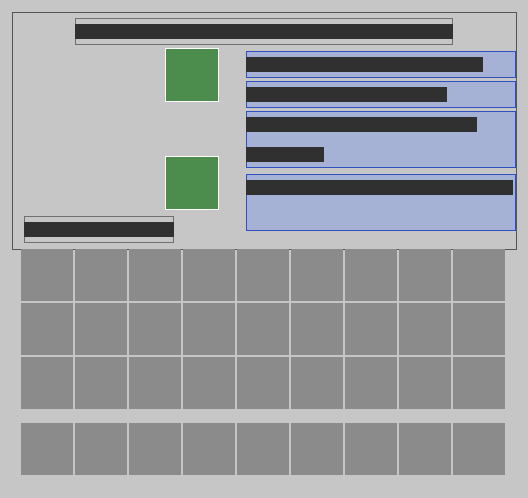
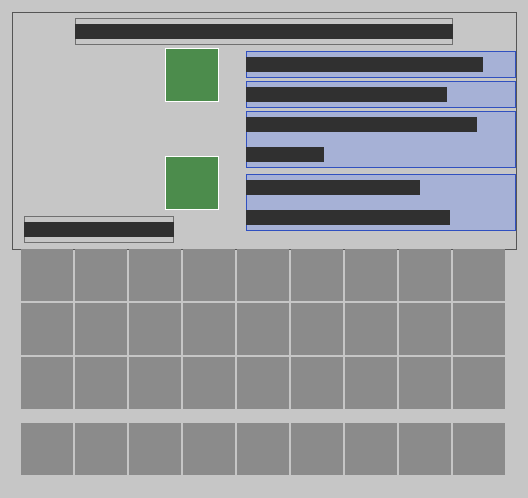
IMP O-037 [10-04]: feedback control - centrifugal governor fitted to steam engines and turbines throttles the valve by speed (stored energy stands in for rpm, P control), saving coal; screen shows speed vs 100% target; GameTest centrifugal_governor, REFERENCES, DECISIONS Q36-1/Q36-2 (provisional); L

Changed region(s): [[0.4545, 0.4217, 0.8788, 0.4518], [0.7879, 0.3614, 0.9697, 0.3916]]

diff --git a/src/main/java/com/taku3/semiconductorlab/energy/SteamEngineBlockEntity.java b/src/main/java/com/taku3/semiconductorlab/energy/SteamEngineBlockEntity.java
@@ -32,15 +32,22 @@ public class SteamEngineBlockEntity extends GeneratorBlockEntity implements Mach
     public static final double COAL_HEAT_J = 30_000_000;   // 石炭1個の熱（ゲームの約束）
     public static final int SLOT_COAL = 0, SLOT_WATER = 1;
     // GUI へ送る数値。同期は short（最大32767）なので、W は「0.1kW 単位」、J は「kJ 単位」に縮めて送る
-    public static final int DATA_BURN = 0, DATA_BURN_TOTAL = 1, DATA_WATER = 2, DATA_DECI_KW = 3, DATA_KJ = 4, DATA_COUNT = 5;
+    public static final int DATA_BURN = 0, DATA_BURN_TOTAL = 1, DATA_WATER = 2, DATA_DECI_KW = 3, DATA_KJ = 4, DATA_SPEED = 5, DATA_GOVERNOR = 6, DATA_COUNT = 7;
+    /** [10-04] 遠心調速機：目標の回転（%）と、今の回転の計算（蓄えの量 0〜1 → 80〜120%。蓄えがあふれそう＝回りすぎ） */
+    public static final int TARGET_SPEED = 100;
+    public static int speedPercent(double fill) { return (int) Math.round(80 + 40 * fill); }
     private final SimpleContainer container = new SimpleContainer(2) { @Override public void setChanged() { super.setChanged(); SteamEngineBlockEntity.this.setChanged(); } };
     private int burnTicks, waterUnits;
+    /** [10-04] 遠心調速機を付けたか・弁の開き（0〜1）・燃え進みの端数 */
+    private boolean governor;
+    private double throttle = 1, burnFrac;
     // waterUnits: 石炭何個分の水が残っているか。feedNow: 隣の水源から給水できたか（タービンだけ。GUI には水 = -1 で送る）
     private boolean feedNow;
     private final ContainerData data = new ContainerData() {
         @Override public int get(int i) { return switch (i) {
             case DATA_BURN -> burnTicks; case DATA_BURN_TOTAL -> coalTicks; case DATA_WATER -> feedNow ? -1 : waterUnits;
-            case DATA_DECI_KW -> (int) Math.round(getLastWatts() / 100); case DATA_KJ -> (int) (storage.getStoredJ() / 1000); default -> 0; }; }
+            case DATA_DECI_KW -> (int) Math.round(getLastWatts() / 100); case DATA_KJ -> (int) (storage.getStoredJ() / 1000);
+            case DATA_SPEED -> speedPercent(fill()); case DATA_GOVERNOR -> governor ? 1 : 0; default -> 0; }; }
         @Override public void set(int i, int v) {}
         @Override public int getCount() { return DATA_COUNT; }
     };
@@ -56,7 +63,7 @@ public class SteamEngineBlockEntity extends GeneratorBlockEntity implements Mach
             .text("output", 82, 17, 90, 1, "gui.semiconductor-lab.steam_engine.output").samples("500.0 kW")
             .text("stored", 82, 27, 90, 1, "gui.semiconductor-lab.steam_engine.stored").samples("50 kJ")
             .text("water", 82, 37, 90, 2, "gui.semiconductor-lab.steam_engine.water_intake", "gui.semiconductor-lab.steam_engine.water").samples("8")
-            .text("hint", 82, 58, 90, 2, "gui.semiconductor-lab.steam_engine.running", "gui.semiconductor-lab.steam_engine.need_water", "gui.semiconductor-lab.steam_engine.need_coal")
+            .text("hint", 82, 58, 90, 2, "gui.semiconductor-lab.steam_engine.running", "gui.semiconductor-lab.steam_engine.need_water", "gui.semiconductor-lab.steam_engine.need_coal", "gui.semiconductor-lab.steam_engine.governor").samples("120", "100")
             .build();
 
     public SteamEngineBlockEntity(BlockPos pos, BlockState state) { this(Power.STEAM_ENGINE.type, pos, state, 200_000, WATTS, COAL_TICKS); }
@@ -79,8 +86,17 @@ public class SteamEngineBlockEntity extends GeneratorBlockEntity implements Mach
     public int getWaterUnits() { return waterUnits; }
     public static boolean isFuel(ItemStack s) { return s.is(Items.COAL) || s.is(Items.CHARCOAL); }
 
+    /** 蓄えの量（0〜1） */
+    public double fill() { return storage.getStoredJ() / (double) Math.max(1, storage.getCapacityJ()); }
+    public boolean hasGovernor() { return governor; }
+    public double throttle() { return throttle; }
+    /** [10-04] 遠心調速機を付ける（付けたら true、アイテムを減らすのは呼ぶ側） */
+    public boolean installGovernor() { if (governor) return false; governor = true; setChanged(); return true; }
+
     @Override protected double produceWatts(Level level, BlockPos pos, BlockState state) {
-        if (burnTicks <= 0) {
+        // [10-04] フィードバック制御：今の回転（蓄えの量）を目標とくらべ、回りすぎなら弁をしぼる（P 制御）。調速機が無ければいつも全開＝あふれた電気は捨てる
+        throttle = governor ? Math.max(0, Math.min(1, 0.5 + (TARGET_SPEED - speedPercent(fill())) / 20.0)) : 1;
+        if (burnTicks <= 0 && throttle > 0) {
             boolean feed = feedNow = hasFeedWater(level, pos);
             ItemStack water = container.getItem(SLOT_WATER);
             if (!feed && waterUnits <= 0 && water.is(Items.WATER_BUCKET)) { container.setItem(SLOT_WATER, new ItemStack(Items.BUCKET)); waterUnits = 2; }
@@ -88,10 +104,15 @@ public class SteamEngineBlockEntity extends GeneratorBlockEntity implements Mach
             if ((feed || waterUnits > 0) && isFuel(coal)) { coal.shrink(1); container.setChanged(); if (!feed) waterUnits--; burnTicks = coalTicks; }
         }
         if (burnTicks <= 0) return 0;
-        burnTicks = Math.max(0, burnTicks - dynamoFactor());   // 自励式：2倍の出力＝2倍の速さで石炭を使う
-        return ratedWatts();
+        burnFrac += dynamoFactor() * throttle;   // 自励式：2倍の出力＝2倍の速さで石炭を使う。弁をしぼると石炭もゆっくり
+        int used = (int) burnFrac;
+        burnFrac -= used;
+        burnTicks = Math.max(0, burnTicks - used);
+        return ratedWatts() * throttle;
     }
-    @Override protected void saveAdditional(ValueOutput out) { super.saveAdditional(out); ContainerHelper.saveAllItems(out, container.getItems()); out.putInt("Burn", burnTicks); out.putInt("Water", waterUnits); }
-    @Override protected void loadAdditional(ValueInput in) { super.loadAdditional(in); container.getItems().replaceAll(s -> ItemStack.EMPTY); ContainerHelper.loadAllItems(in, container.getItems()); burnTicks = in.getIntOr("Burn", 0); waterUnits = in.getIntOr("Water", 0); }
-    @Override public void preRemoveSideEffects(BlockPos pos, BlockState state) { if (level != null) net.minecraft.world.Containers.dropContents(level, pos, container.getItems()); super.preRemoveSideEffects(pos, state); }
+    @Override protected void saveAdditional(ValueOutput out) { super.saveAdditional(out); ContainerHelper.saveAllItems(out, container.getItems()); out.putInt("Burn", burnTicks); out.putInt("Water", waterUnits); out.putBoolean("Governor", governor); }
+    @Override protected void loadAdditional(ValueInput in) { super.loadAdditional(in); container.getItems().replaceAll(s -> ItemStack.EMPTY); ContainerHelper.loadAllItems(in, container.getItems()); burnTicks = in.getIntOr("Burn", 0); waterUnits = in.getIntOr("Water", 0); governor = in.getBooleanOr("Governor", false); }
+    @Override public void preRemoveSideEffects(BlockPos pos, BlockState state) { if (level != null) net.minecraft.world.Containers.dropContents(level, pos, container.getItems());
+        if (governor && level != null) net.minecraft.world.level.block.Block.popResource(level, pos, new ItemStack(com.taku3.semiconductorlab.content.Control.CENTRIFUGAL_GOVERNOR));
+        super.preRemoveSideEffects(pos, state); }
 }

diff --git a/src/gametest/java/com/taku3/semiconductorlab/gametest/ControlTests.java b/src/gametest/java/com/taku3/semiconductorlab/gametest/ControlTests.java
@@ -102,4 +102,31 @@ public class ControlTests extends LabTestBase {
         h.assertTrue(a.satisfied(1, chip) && !a.satisfied(0, chip), "mul4 chip is the multiplier, not the CPU");
         h.succeed();
     }
+
+    /**
+     * [10-04] フィードバック制御（O-037、Q36-1 案A 仮決定）：遠心調速機を付けた蒸気機関は、電気を使う物が無いとき回りすぎ（蓄えがあふれそう）を見て弁をしぼり、
+     * 石炭がゆっくり減る。付けていない機関は全開のまま（あふれた電気は捨てる）。調速機は2個目が付かない
+     */
+    @GameTest(maxTicks = 100)
+    public void centrifugalGovernor(GameTestHelper h) {
+        net.minecraft.core.BlockPos a = p(1, 1, 1), b = p(4, 1, 1);
+        h.setBlock(a, com.taku3.semiconductorlab.content.Power.STEAM_ENGINE.block);
+        h.setBlock(b, com.taku3.semiconductorlab.content.Power.STEAM_ENGINE.block);
+        var plain = h.getBlockEntity(a, com.taku3.semiconductorlab.energy.SteamEngineBlockEntity.class);
+        var gov = h.getBlockEntity(b, com.taku3.semiconductorlab.energy.SteamEngineBlockEntity.class);
+        h.assertTrue(gov.installGovernor() && !gov.installGovernor(), "one governor only");
+        for (var e : new com.taku3.semiconductorlab.energy.SteamEngineBlockEntity[] {plain, gov}) {
+            e.getContainer().setItem(com.taku3.semiconductorlab.energy.SteamEngineBlockEntity.SLOT_COAL, new net.minecraft.world.item.ItemStack(Items.COAL, 2));
+            e.getContainer().setItem(com.taku3.semiconductorlab.energy.SteamEngineBlockEntity.SLOT_WATER, new net.minecraft.world.item.ItemStack(Items.WATER_BUCKET));
+        }
+        tickGenerator(h, a, plain, 400);
+        tickGenerator(h, b, gov, 400);
+        int speed = com.taku3.semiconductorlab.energy.SteamEngineBlockEntity.speedPercent(gov.fill());
+        h.assertTrue(plain.getBurnTicks() < 250, "without a governor the coal burns at full rate: " + plain.getBurnTicks());
+        h.assertTrue(gov.getBurnTicks() > plain.getBurnTicks() + 150, "the governor saves coal: " + gov.getBurnTicks() + " vs " + plain.getBurnTicks());
+        h.assertTrue(speed >= 95 && speed <= 112, "the governor holds the speed near the 100% target: " + speed);
+        h.assertTrue(com.taku3.semiconductorlab.energy.SteamEngineBlockEntity.speedPercent(plain.fill()) >= 118, "the plain engine overspeeds");
+        LOG.info("[LAB] governor [10-04]: burn left {} vs {} ticks, speed {}% (target 100)", gov.getBurnTicks(), plain.getBurnTicks(), speed);
+        h.succeed();
+    }
 }

diff --git a/src/main/java/com/taku3/semiconductorlab/energy/GeneratorBlock.java b/src/main/java/com/taku3/semiconductorlab/energy/GeneratorBlock.java
@@ -40,6 +40,16 @@ public class GeneratorBlock extends MachineEntityBlock {
             }
             return InteractionResult.SUCCESS;
         }
+        if (stack.is(com.taku3.semiconductorlab.content.Control.CENTRIFUGAL_GOVERNOR)) {   // [10-04] 遠心調速機（蒸気機関・タービン）
+            if (level.isClientSide()) return InteractionResult.SUCCESS;
+            if (!(level.getBlockEntity(pos) instanceof SteamEngineBlockEntity se)) player.sendSystemMessage(Component.translatable("message.semiconductor-lab.governor.not_possible"));
+            else if (!se.installGovernor()) player.sendSystemMessage(Component.translatable("message.semiconductor-lab.governor.already"));
+            else {
+                if (!player.getAbilities().instabuild) stack.shrink(1);
+                player.sendSystemMessage(Component.translatable("message.semiconductor-lab.governor.installed"));
+            }
+            return InteractionResult.SUCCESS;
+        }
         if (!stack.is(com.taku3.semiconductorlab.content.Power.SELF_EXCITED_DYNAMO) || !(level.getBlockEntity(pos) instanceof GeneratorBlockEntity be)) return InteractionResult.TRY_WITH_EMPTY_HAND;
         if (level.isClientSide()) return InteractionResult.SUCCESS;
         if (!be.supportsDynamoUpgrade()) player.sendSystemMessage(Component.translatable("message.semiconductor-lab.self_excited_dynamo.not_needed"));

diff --git a/src/client/java/com/taku3/semiconductorlab/client/SteamEngineScreen.java b/src/client/java/com/taku3/semiconductorlab/client/SteamEngineScreen.java
@@ -34,6 +34,8 @@ public class SteamEngineScreen extends MachineScreen {
             case "stored" -> Component.translatable(K + "stored", menu.get(SteamEngineBlockEntity.DATA_KJ) + " kJ");
             case "water" -> water < 0 ? Component.translatable(K + "water_intake") : Component.translatable(K + "water", water);
             case "hint" -> {
+                if (menu.get(SteamEngineBlockEntity.DATA_GOVERNOR) == 1 && menu.get(SteamEngineBlockEntity.DATA_BURN) > 0)   // [10-04] 調速機：目標の回転と今の回転（ずれを見て直す）
+                    yield Component.translatable(K + "governor", menu.get(SteamEngineBlockEntity.DATA_SPEED), SteamEngineBlockEntity.TARGET_SPEED);
                 if (menu.get(SteamEngineBlockEntity.DATA_BURN) > 0) yield Component.translatable(K + "running");
                 if (water == 0 && !menu.getSlot(1).getItem().is(Items.WATER_BUCKET)) yield Component.translatable(K + "need_water");
                 if (menu.getSlot(0).getItem().isEmpty()) yield Component.translatable(K + "need_coal");

diff --git a/src/main/java/com/taku3/semiconductorlab/content/Control.java b/src/main/java/com/taku3/semiconductorlab/content/Control.java
@@ -12,6 +12,8 @@ public final class Control {
     // ===== アイテム =====
     // [10-01] 電磁石（1825 スタージャン、1830年代 ヘンリー）：鉄の芯に絶縁した銅線を何重にも巻く。電流を流す間だけ磁石になる。イオン注入 [9-28] の質量分離・電磁レンズなどの部品
     public static final Item ELECTROMAGNET         = Reg.item("electromagnet");
+    // [10-04] フィードバック制御（O-037）：遠心調速機（1788 ワット）。蒸気機関・タービンに右クリックで付ける
+    public static final Item CENTRIFUGAL_GOVERNOR  = Reg.item("centrifugal_governor");
 
     // [10-13] 4ビットのマイコン（1971 インテル MCS-4 の形、A、S-014）：CPU のチップ＋ROM のチップ＋水晶＋ニキシー管を組立台で
     public static final Item MICROCOMPUTER         = Reg.item("microcomputer", com.taku3.semiconductorlab.item.MicrocomputerItem::new, new Item.Properties().stacksTo(1));

diff --git a/docs/TECH_TREE.md b/docs/TECH_TREE.md
@@ -622,7 +622,7 @@ graph LR
 ### [10-01] 電磁石 ✅  遊び方: 軽 ／ **実装（2026-10 IMP4-01、O-011 [9-28] の前提。幹10 のファイル content/Control.java をこのとき作った）**: 作業台で 鉄インゴット1＋銅線8（[1-58]）→ 電磁石 electromagnet（部品アイテム）。絶縁は省略（placeholder）。CHEMISTRY F48（10_control）、REFERENCES F25 ／ テスト: electromagnet ／ ID: electromagnet ／ 元の記述→  年: 1820（1820〜1825） ／ 前提: [4-03]銅線✅ or [1-03]銅（絹を巻いた銅線）, 鉄心, [4-13]ボルタ電池 or [4-01]✅ ／ 本物: 1820 エルステッドが電流で方位磁針が振れることを発見、1825 ウィリアム・スタージャンの電磁石、1830年代 ジョセフ・ヘンリーが絶縁線を何重にも巻いて強力に ／ MC: 部品アイテム（リレー・質量分離[9-28]・電磁レンズ[8-11]）／ へえ①: スイッチを切ると、ただの鉄に戻る磁石
 ### [10-02] リレー ❓  年: 1835 ／ 前提: [10-01] ／ 本物: 1835 ヘンリー（電信の中継のため）。弱い電流で電磁石を動かし、別の強い回路のスイッチを入れる＝「電気で電気を切り替える」最初の部品 ／ MC: リレーブロック（レッドストーン信号 ↔ 電力網の橋渡し）／ へえ①: カチカチ鳴る小さなスイッチが、コンピュータの祖先
 ### [10-03] 電信 ❓  年: 1837 ／ 前提: [10-02], [4-03]✅, 電池 ／ 本物: 1837 クックとホイートストン（英）、1837〜44 モールス（米、1844 ワシントン〜ボルティモア）。1858・1866 大西洋横断ケーブル（絶縁にグッタペルカ）／ MC: 2地点間で文字を送るブロック（幹15 はこのノードを参照。海底ケーブルは[15-03]）／ へえ①: 電信のおかげで、馬で何日もかかった知らせが一瞬で届いた ／ 種類: モノ
-### [10-04] フィードバック制御 ❓  年: 1788 ／ 前提: [4-02]✅蒸気機関, [8-01] ／ 本物: 1788 ワットの遠心調速機（回転が速すぎると弁を閉じる）、1868 マクスウェルの安定性の論文、1922 ミノルスキーの PID 制御（船の自動操舵）／ MC: 機械の「自動調整」機能（発電機の出力安定）／ へえ①: 目標とのずれを見て直す、が全ての自動制御の基本
+### [10-04] フィードバック制御 ✅  年: 1788 ／ **実装（2026-10-21 A、O-037 Q36-1 案A 仮決定）**: 遠心調速機（centrifugal_governor）を蒸気機関・タービンに右クリック → 回転（蓄えの量 80〜120% ⚠）を目標 100% とくらべて弁をしぼる P 制御、石炭が長持ち。テスト centrifugalGovernor、REFERENCES F60 ／ 前提: [4-02]✅蒸気機関, [8-01]✅ ／ 本物: 1788 ワットの遠心調速機（回転が速すぎると弁を閉じる）、1868 マクスウェルの安定性の論文、1922 ミノルスキーの PID 制御（船の自動操舵）／ MC: 機械の「自動調整」機能（発電機の出力安定）／ へえ①: 目標とのずれを見て直す、が全ての自動制御の基本
 ### [10-05] ブール代数とスイッチ回路 ❓  種類: 発見 ／ 遊び方: 実験（スイッチで AND・OR・NOT を作る） ／ 年: 1854 ／ 前提: [10-02] ／ 本物: 1854 ジョージ・ブールの論理の代数、1937 クロード・シャノンの修士論文（リレー回路で AND・OR・NOT が作れ、論理式で設計できる）／ MC: 論理ゲートの考え方（ガイドに真理値表）／ へえ①: 「はい／いいえ」の計算だけで、足し算もできる
 ### [10-06] リレー計算機 ❓  年: 1941 ／ 前提: [10-05], リレー多数 ／ 本物: 1941 コンラート・ツーゼの Z3（約2600個のリレー、プログラム式・2進浮動小数点）、1944 ハーバード Mark I ／ MC: 計算機ブロック（遅いが動く）／ へえ①: 最初のプログラム式計算機は、カチャカチャ鳴るスイッチの集まり
 ### [10-07] 真空管フリップフロップと計算機 ❓  年: 1918 ／ 前提: [5-02]真空管 ／ 本物: 1918 エクルズとジョーダンのフリップフロップ（1ビットを覚える回路）。1943〜44 コロッサス（暗号解読）、1946 ENIAC（約1万8000本の真空管、約150kW）／ MC: リレーより速い計算機。真空管が切れる（寿命）／ へえ①: ENIAC は真空管がしょっちゅう切れ、毎日交換していた

diff --git a/docs/REFERENCES.md b/docs/REFERENCES.md
@@ -4376,3 +4376,15 @@ Long Now 財団の「Manual for Civilization（文明の手引き）」の推薦
 - つなぐノード：（ノードにはつながない。全体の本）
 - 確かさ：○（目録 https://catalog.saclibrary.org/Record/.b21134418、国立国会図書館 https://ndlsearch.ndl.go.jp/books/R100000002-I000008042780）
 
+## F60. 回りすぎたら弁をしぼる（遠心調速機とフィードバック制御）［10-04］
+**答え**：目標（ねらいの速さ）と今の値のずれを測り、ずれを小さくする向きに直し続ける＝フィードバック制御。1788年、ワットは蒸気機関の軸に2つのおもりの玉を付け、速く回ると玉が遠心力で開いて蒸気の弁を閉じるようにした（遠心調速機）。
+
+- へえ①：調速機は風車の石臼のすき間の調整にすでに使われていて、ワットはそれを蒸気機関に応用した ⚠
+- へえ②：1868年、マクスウェルが論文『調速機について』で、調速機が回転をふらつかせる（ハンチング）理由を式で調べ、制御の理論が始まった
+- へえ③：1922年、ミノルスキーが船の自動かじ取りの研究で、今の PID 制御（ずれ・ずれの合計・ずれの変わる速さ）の形を示した
+- へえ④：エアコン・自動運転・ロボットの腕・露光装置のステージも、みな「測って、くらべて、直す」のくり返し
+
+確かさ：ワットの調速機 1788 ◎／マクスウェル 1868 ◎／ミノルスキー 1922 ◎／風車からの応用 △
+ゲーム（2026-10-21 A、O-037 で実装）：遠心調速機を蒸気機関・タービンに右クリックで付けると、蓄えの量（＝回転の代わり、80〜120%）を目標 100% とくらべて弁をしぼる（P 制御）。電気を使う物が少ないと石炭が長持ち。画面に「回転 xx%（目標 100%）」
+根拠：Wikipedia「Centrifugal governor」https://en.wikipedia.org/wiki/Centrifugal_governor （英語）、J. C. Maxwell「On Governors」Proc. Royal Society 1868 https://doi.org/10.1098/rspl.1867.0055 、Wikipedia「Proportional–integral–derivative controller」（History）https://en.wikipedia.org/wiki/Proportional%E2%80%93integral%E2%80%93derivative_controller
+

diff --git a/docs/TEST_QUEUE.md b/docs/TEST_QUEUE.md
@@ -1341,6 +1341,10 @@
 - [x] 自動✅ mathCoprocessor：0.1＋0.2 は 64ビットで 0.30000000000000004…、どの長さでも 0.3 ちょうどにならない、組立台は cpu8・mul4・レジスタのチップ
 - [ ] 人間：組立台で数値演算チップを組み、右クリックでチャットに 16・32・64ビットの答えとビットの並び
 
+## [10-04] フィードバック制御（A、O-037）
+- [x] 自動✅ centrifugalGovernor：電気を使う物が無いとき、調速機付きは石炭が長持ち（残り 541 vs 200 tick）、回転 110%（目標 100%）、付いていない機関は 120% で回りすぎ、2個目は付かない
+- [ ] 人間：蒸気機関に調速機を右クリック → 画面に「回転 xx%（目標 100%）」。電気を使う機械をつなぐ・外すと回転と出力が追いかける
+
 ## [11-13] 冷凍機（IMP2、S-003）
 - [x] 自動✅ 冷媒なしでは動かない、水バケツ → 氷＋バケツ（20秒・1kW）、冷媒は減らない、レシピ、lang `(refrigerator)`
 - [ ] 人間：冷凍機に電気をつなぎ、アンモニア水と水バケツを入れて氷ができるか。画面の文字

diff --git a/docs/CHEMISTRY.md b/docs/CHEMISTRY.md
@@ -1505,6 +1505,12 @@
 |---|---|---|---|
 | F48 | 鉄インゴット1＋銅線8 → 電磁石 | 鉄の芯に絶縁した銅線を巻く（1825 スタージャン、1830年代 ヘンリー） | ✅ ⚠ 絶縁は省略、部品アイテムでブロックとしては働かない（electromagnet.placeholder） |
 
+## [10-04] フィードバック制御（A、O-037、番号は F60）
+| # | レシピ・挙動 | 本物 | 判定 |
+|---|---|---|---|
+| F60 | 鋼インゴット2（玉）＋鉄インゴット3＋ねじ1（旋盤）→ 遠心調速機 | 軸に2つのおもりの玉と腕、弁につながる棒（1788 ワット） | ✅ ⚠ 腕と弁の棒は省略（ねじで代用） |
+| F60 | 蒸気機関・タービンに付けると、回転（＝蓄えの量 80〜120%）が目標 100% より速いと弁をしぼる（P 制御）、石炭がゆっくり減る | 速く回ると玉が開き、蒸気の弁を閉じる | ✅ ⚠ 回転の代わりに蓄えの量を使う（省略） |
+
 ## [11-13] 冷凍機（IMP2、S-003。A1〜）
 | # | レシピ・挙動 | 本物 | 判定 |
 |---|---|---|---|

diff --git a/docs/chemistry/10_control.md b/docs/chemistry/10_control.md
@@ -2,3 +2,9 @@
 | # | レシピ・挙動 | 本物 | 判定 |
 |---|---|---|---|
 | F48 | 鉄インゴット1＋銅線8 → 電磁石 | 鉄の芯に絶縁した銅線を巻く（1825 スタージャン、1830年代 ヘンリー） | ✅ ⚠ 絶縁は省略、部品アイテムでブロックとしては働かない（electromagnet.placeholder） |
+
+## [10-04] フィードバック制御（A、O-037、番号は F60）
+| # | レシピ・挙動 | 本物 | 判定 |
+|---|---|---|---|
+| F60 | 鋼インゴット2（玉）＋鉄インゴット3＋ねじ1（旋盤）→ 遠心調速機 | 軸に2つのおもりの玉と腕、弁につながる棒（1788 ワット） | ✅ ⚠ 腕と弁の棒は省略（ねじで代用） |
+| F60 | 蒸気機関・タービンに付けると、回転（＝蓄えの量 80〜120%）が目標 100% より速いと弁をしぼる（P 制御）、石炭がゆっくり減る | 速く回ると玉が開き、蒸気の弁を閉じる | ✅ ⚠ 回転の代わりに蓄えの量を使う（省略） |
